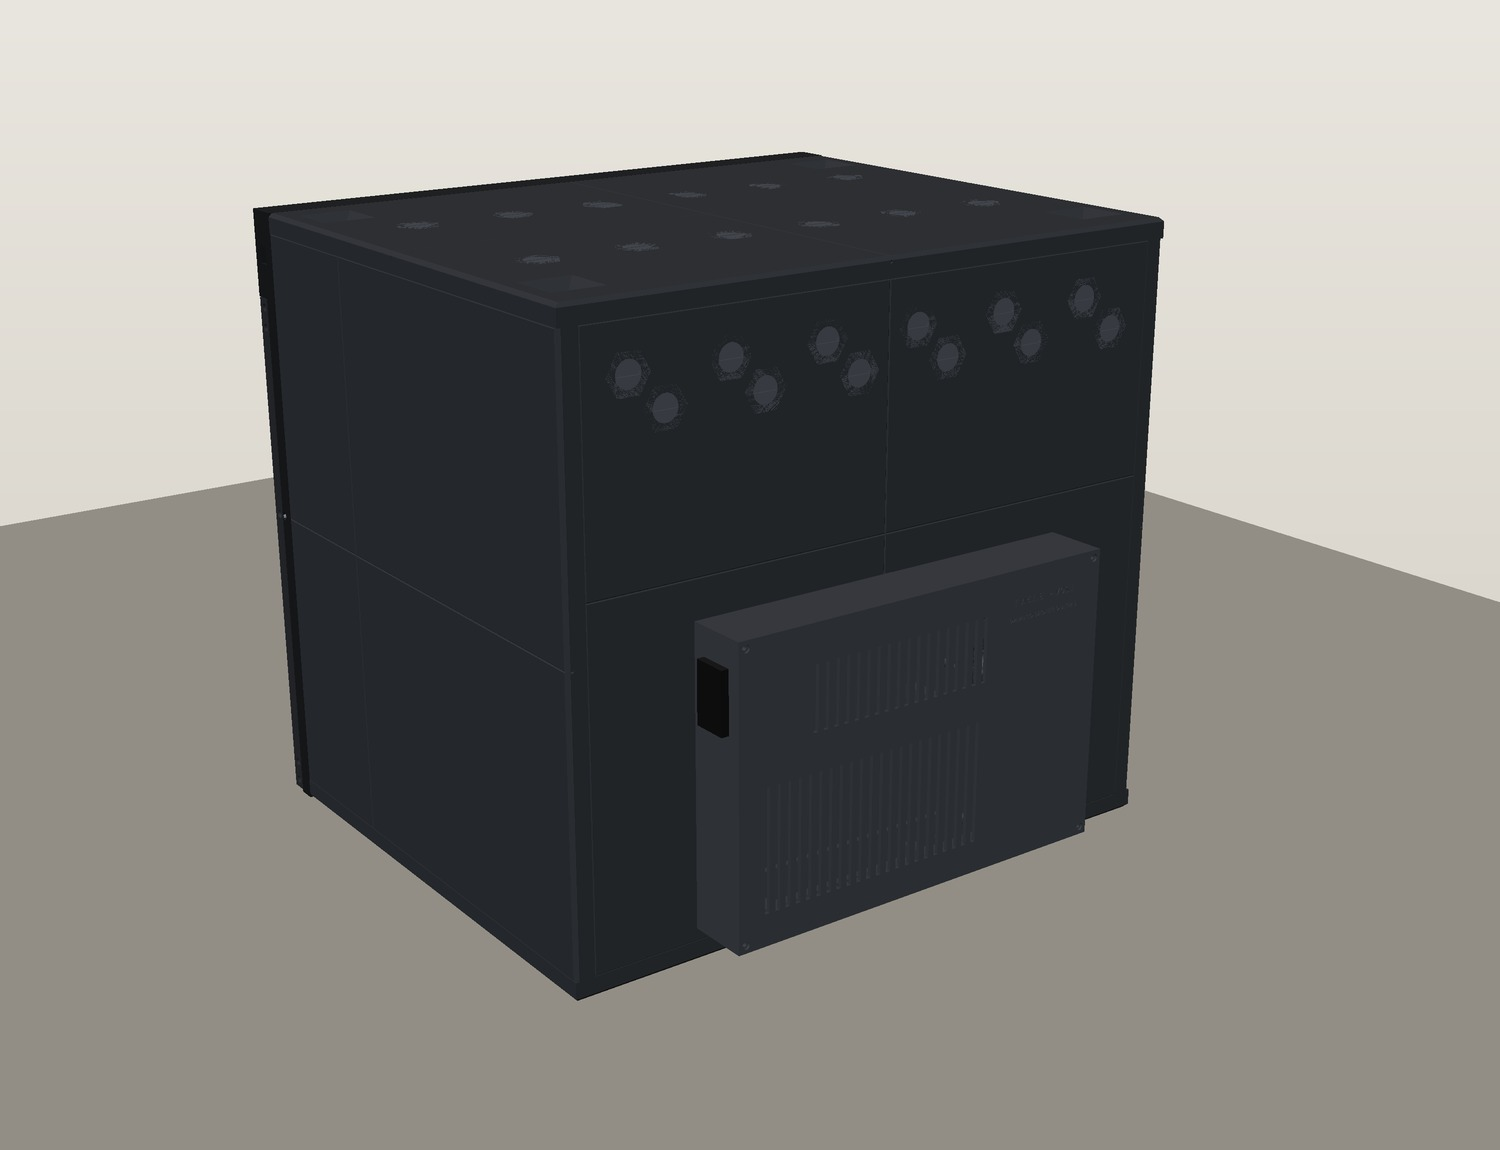
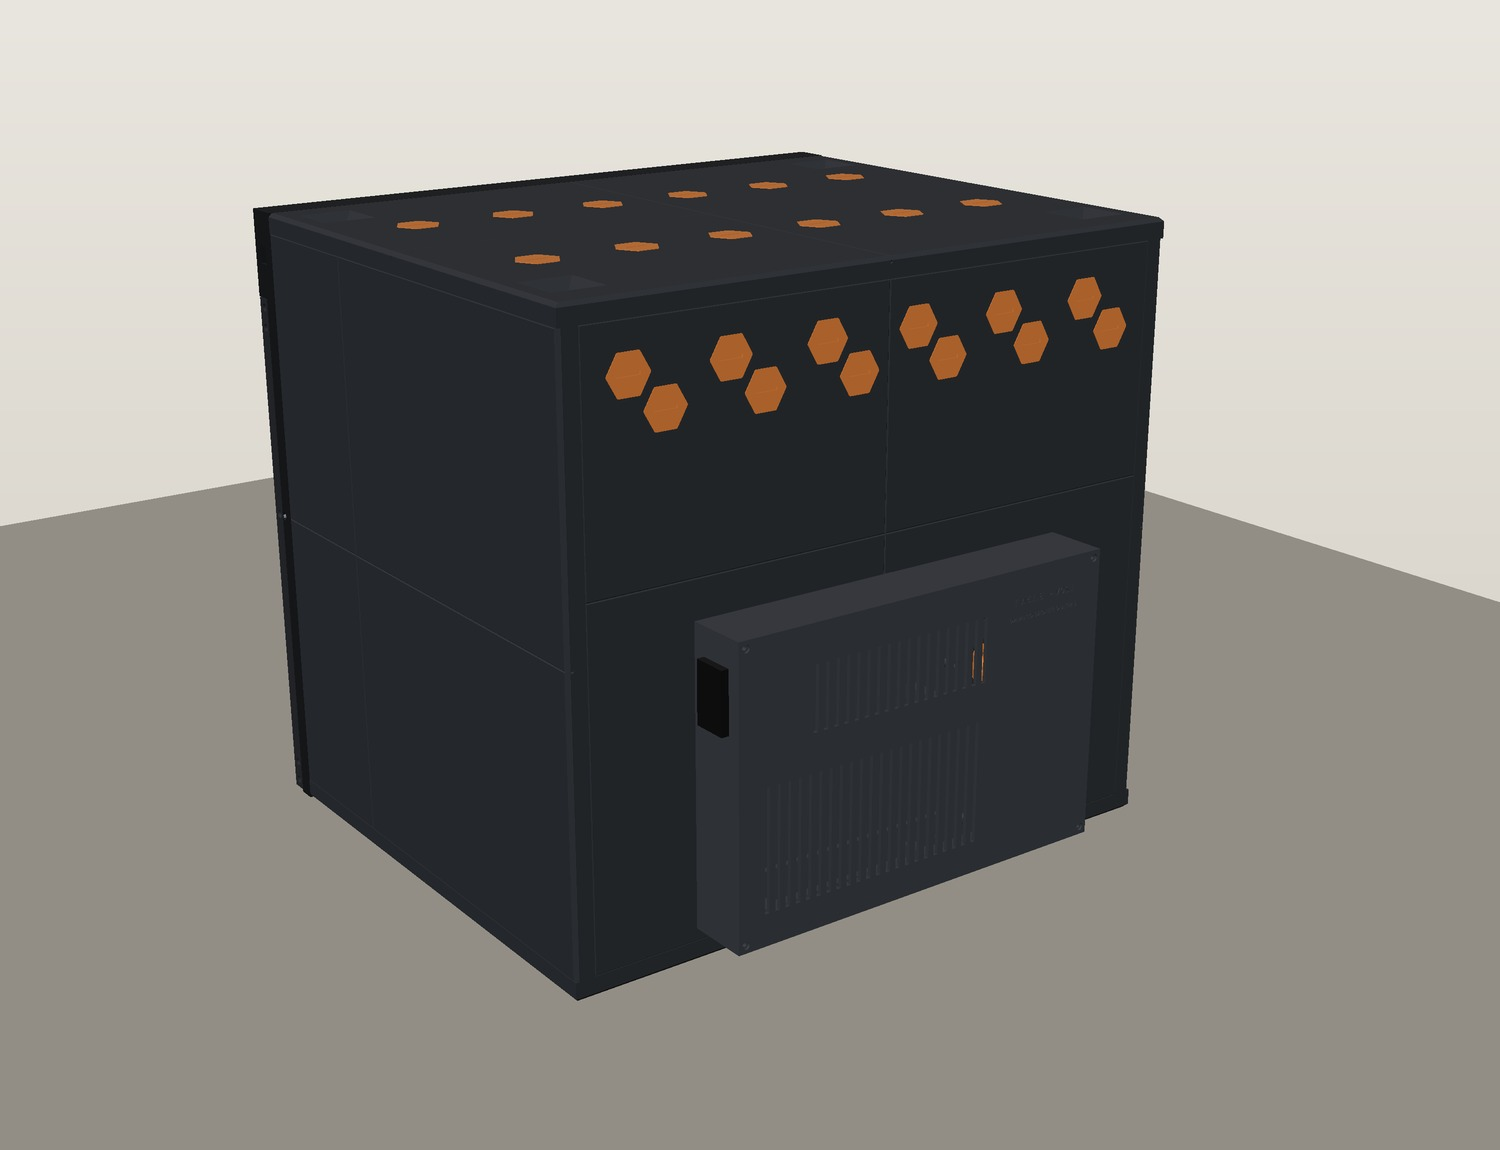
filament-dry-cabinet: orange port plugs and latch bar in the presentation renders
Claude-Session: https://claude.ai/code/session_01Fr6xhM7DESu9XfqMuZQkwi

diff --git a/models/filament-dry-cabinet/cad/render_hero.py b/models/filament-dry-cabinet/cad/render_hero.py
@@ -20,7 +20,7 @@ IMG = os.path.join(os.path.dirname(os.path.abspath(__file__)), '..', 'images')
 def tm(m):
     o = m.to_mesh(); return trimesh.Trimesh(o.vert_properties[:, :3], o.tri_verts, process=False)
 
-SHELL, FRAME, DOOR, BAR, PART = hexc('#2e3136'), hexc('#1b1c1f'), hexc('#2b2d31'), hexc('#3d4148'), hexc('#3a3e44')
+SHELL, FRAME, DOOR, BAR, PART = hexc('#2e3136'), hexc('#1b1c1f'), hexc('#2b2d31'), hexc('#e8833a'), hexc('#3a3e44')
 STEEL = hexc('#9aa0a6')
 tiles = [t.build(simple=True).transform(t.M()[:3]) for t in make_tiles()]
 TILE = tm(mf.Manifold.batch_boolean(tiles, mf.OpType.Add))
@@ -34,7 +34,8 @@ def ports():
         g = face == 'BACK' and any(abs(p[0] - gx) < 1 and abs(p[2] - gz) < 1 for gx, gz in GLANDS)
         M = np.array([[1, 0, 0, p[0]], [0, 0, -1, Y1], [0, 1, 0, p[2]]] if face == 'BACK' else
                      [[1, 0, 0, p[0]], [0, 1, 0, p[1]], [0, 0, -1, p[2]]], float)
-        out.append(tm((gland if g else plug).transform(M)))
+        nudge = (0, 0.4, 0) if face == 'BACK' else (0, 0, 0.4)     # render only: lift the flush flange off the tile face
+        out.append(tm((gland if g else plug).transform(M).translate(nudge)))
     return out
 PORTS = ports()
 
@@ -88,7 +89,7 @@ def spools(cols):
 
 def cabinet(dz=0.0, band='#1c6dd0', name='PETG', rh=18, cols=PETG):
     sc, lab = screen(band, name, rh)
-    items = [(TILE, SHELL)] + [(f, hexc('#141414')) for f in FEET] + [(p, hexc('#4b5058')) for p in PORTS] + POD + FRONT_PARTS + HINGES + \
+    items = [(TILE, SHELL)] + [(f, hexc('#141414')) for f in FEET] + [(p, hexc('#e8833a')) for p in PORTS] + POD + FRONT_PARTS + HINGES + \
             KNOB + INSIDE + spools(cols) + DOOR_ITEMS + sc
     items = [(m.copy().apply_translation((0, 0, dz)), c) for m, c in items]
     glass = [g.copy().apply_translation((0, 0, dz)) for g in PANES]
